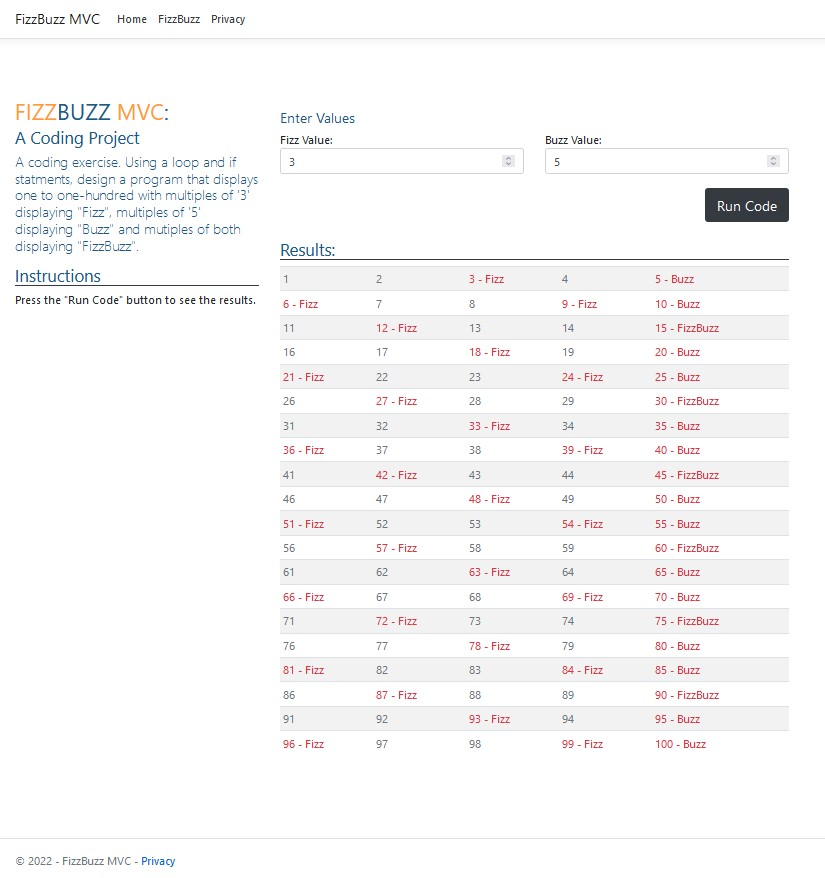
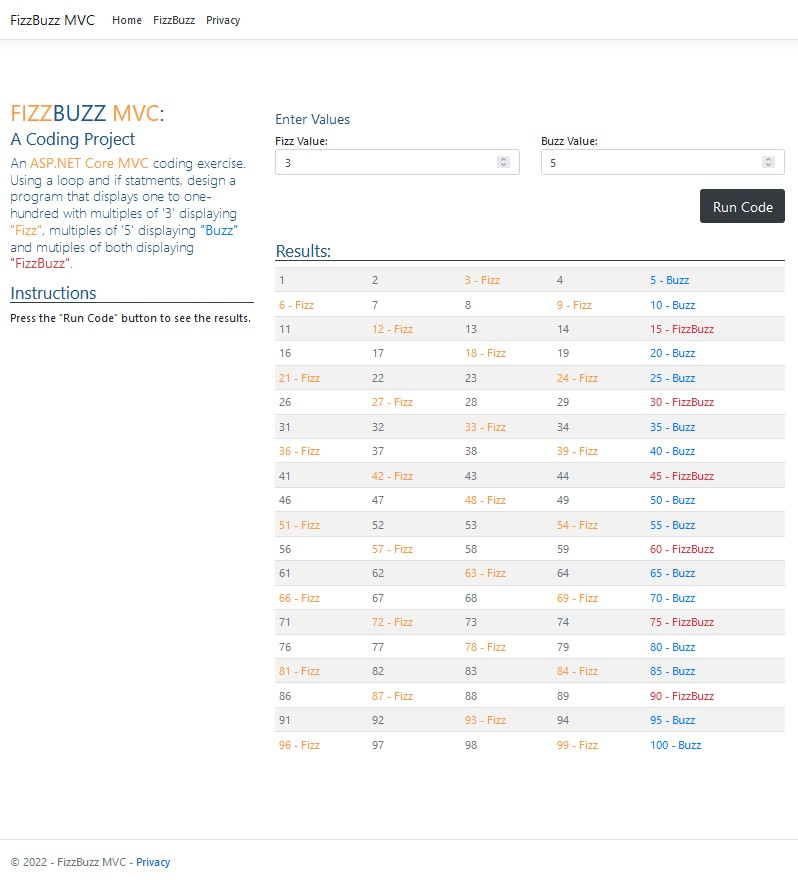
changed css colors

diff --git a/FizzBuzzMVC/wwwroot/css/site.css b/FizzBuzzMVC/wwwroot/css/site.css
@@ -134,7 +134,7 @@ h6 {
 }
 
 .jsicon {
-    color: #ff993b;
+    color: #ff7c00; /* older #ff993b */
 }
 
 main > .container {

diff --git a/README.md b/README.md
@@ -1,4 +1,4 @@
 ### FizzBuzz MVC
 C# ASP.NET Core MVC
 
-![Alt](https://github.com/Hamberfim/FizzBuzzMVC/blob/main/screenshot.png "Screen Shot")
+![Alt](https://github.com/Hamberfim/FizzBuzzMVC/blob/main/screenshot.jpg "Screen Shot")
